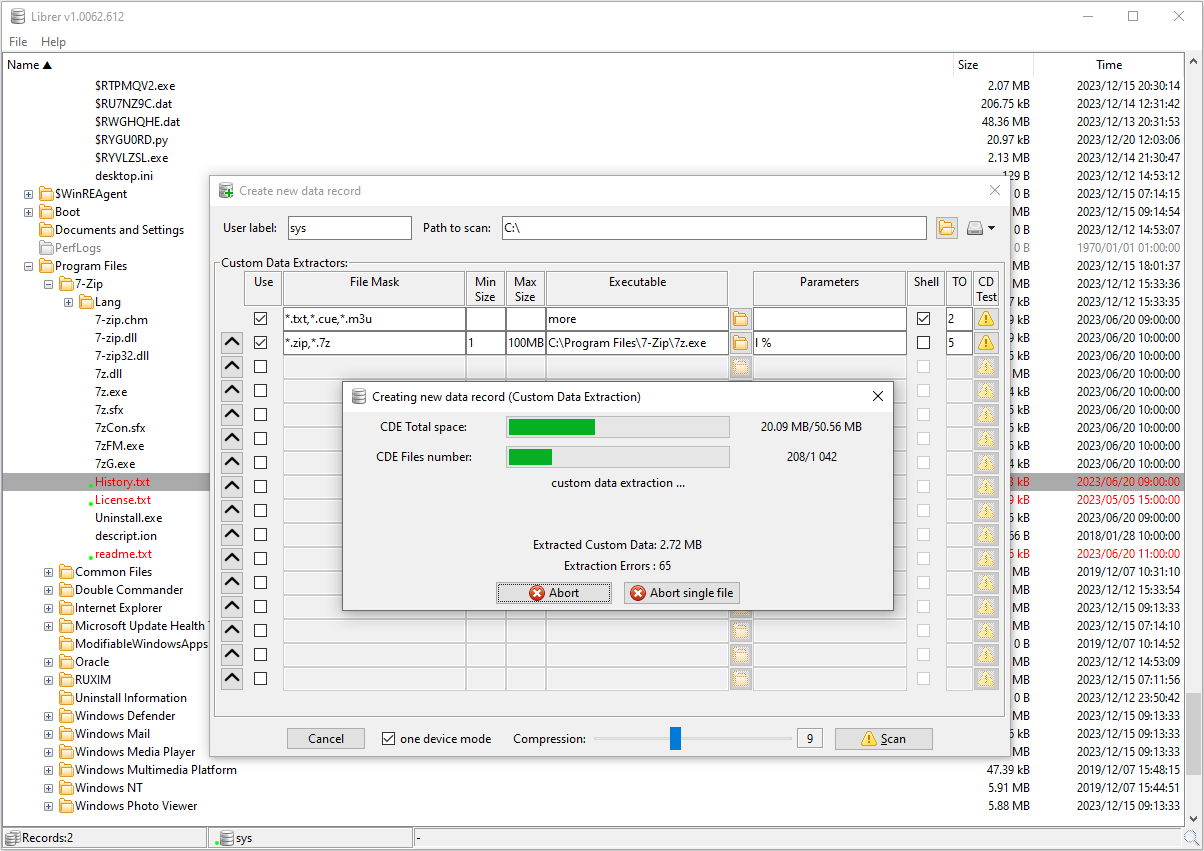
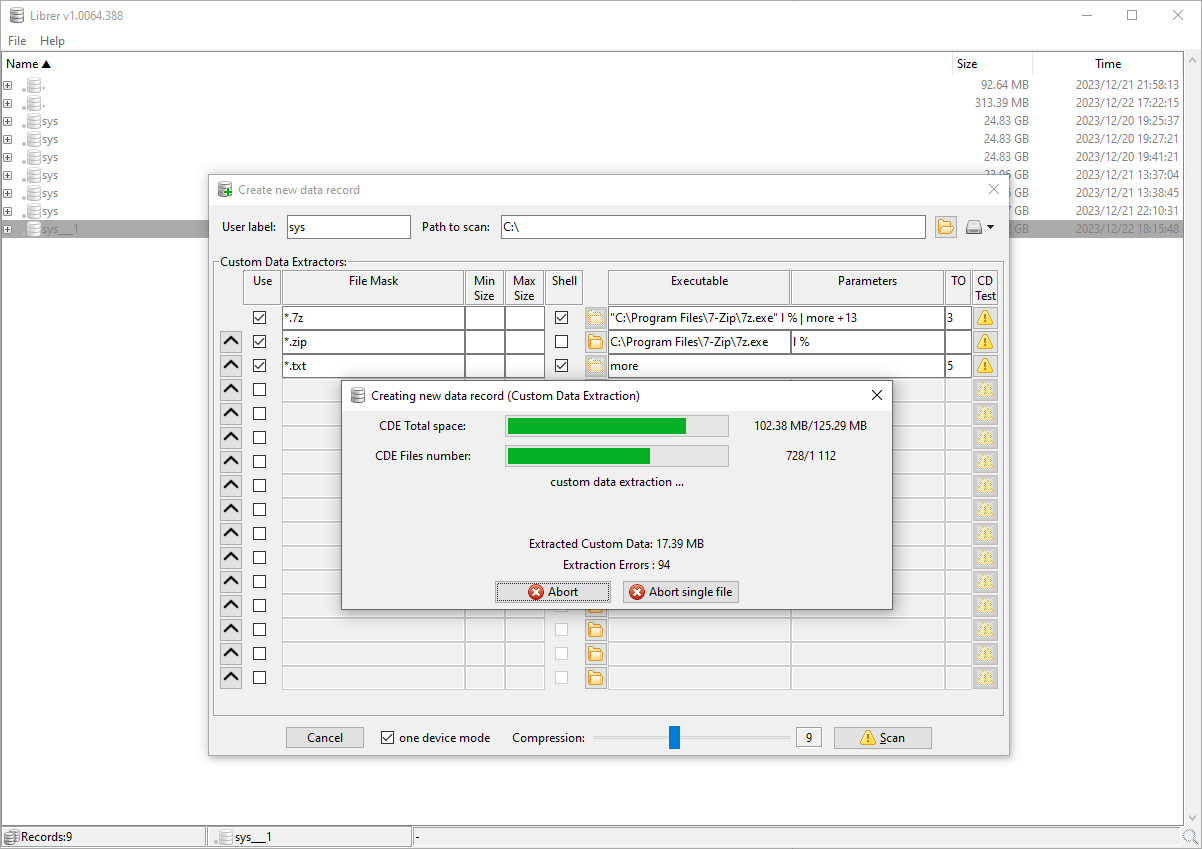
paths processing improvements, tooltips update

diff --git a/src/librer.py b/src/librer.py
@@ -1084,9 +1084,10 @@ class Gui:
             use_tooltip = "Mark to use CD Extractor"
             mask_tooltip = "glob expresions separated by comma (',')\ne.g.: '*.7z, *.zip, *.gz'\n\nthe given executable will run\nwith every file matching the expression\n(and size citeria if provided)"
             max_tooltip = min_tooltip = 'Integer value [in bytes] or integer with unit.\nLeave the value blank to ignore this criterion.\n\nexamples:\n399\n100B\n125kB\n10MB'
-            exec_tooltip = "A binary executable or batch script that will run\nwith the full path to the file to be extracted as a parameter.\nThe executable may have a full path, be located in a PATH\nenvironment variable, or be interpreted by the system shell"
+            exec_tooltip = "Binary executable, batch script, or entire command\n(depending on the 'shell' option setting)\nthat will run with the full path to the scanned file.\nThe executable may have a full path, be located in a PATH\nenvironment variable, or be interpreted by the system shell\n\ncheck 'shell' option tooltip."
             pars_tooltip = f"The executable will run with the full path to the file to extract as a parameter.\nIf other constant parameters are necessary, they should be placed here\nand the scanned file should be indicated with the '{PARAM_INDICATOR_SIGN}' sign.\nThe absence of the '{PARAM_INDICATOR_SIGN}' sign means that the file will be passed as the last parameter.\ne.g.:const_param % other_const_param"
-            shell_tooltip = "Execute in the system shell\n\nWhen enabled\nCommand with parameters will be passed\nto the system shell as single string\nThe use of pipes, redirection etc. is allowed\nExample:\n7z l % | tail -n +14\n\nWhen disabled\nAn executable file must be specified,\nthe contents of the parameters field will be\nsplitted and passed as a parameters list.\n\nIn more complicated cases\nit is recommended to prepare a dedicated shell\nscript and use it as a shell command."
+            shell_example = '"C:\\Program Files\\7-Zip\\7z.exe" l % | more +13' if windows else "7z l % | tail -n +14"
+            shell_tooltip = f"Execute in the system shell\n\nWhen enabled\nCommand with parameters will be passed\nto the system shell as single string\nThe use of pipes, redirection etc. is allowed.\nUsing of quotes (\") may be necessary. Scanned\nfiles will be automatically enclosed with quotation marks.\nExample:\n{shell_example}\n\nWhen disabled\nAn executable file must be specified,\nthe contents of the parameters field will be\nsplitted and passed as a parameters list.\n\nIn more complicated cases\nit is recommended to prepare a dedicated shell\nscript and use it as a shell command."
             open_tooltip = "Point executable as custom data extractor..."
             timeout_tooltip = "Timeout limit in seconds for single CD extraction.\nAfter timeout executed process will be terminated\n\n'0' or empty field means no timeout."
             test_tooltip = "Select a file and test your Custom Data Extractor.\n\nBefore you run scan, and therefore run your CDE on all\nfiles that will match on the scan path,\ntest your Custom Data Extractor\non a single, manually selected file.\nCheck if it's getting the expected data\nand has no unexpected side-effects."
@@ -3413,7 +3414,7 @@ class Gui:
             except:
                 timeout_int = None
 
-            command,command_info = get_command(executable,parameters,full_file_path,shell)
+            command,command_info = get_command(executable,parameters,normpath(full_file_path),shell)
 
             info = command_info + '\n' + ( ('\ntimeout:' + str(timeout_int)) if timeout_int else '') + f'\nshell:{"Yes" if shell else "No"}'
 
@@ -3748,7 +3749,7 @@ class Gui:
 
                                     expressions,use_smin,smin_int,use_smax,smax_int,executable,parameters,shell,timeout,crc = record.header.cde_list[rule_nr]
 
-                                    file_path = record.header.scan_path + sep + sep.join(subpath_list)
+                                    file_path = normpath(sep.join([record.header.scan_path,sep.join(subpath_list)]))
 
                                     cd_txt = cd_data
 

diff --git a/src/core.py b/src/core.py
@@ -172,36 +172,22 @@ def prepare_LUTs():
 prepare_LUTs()
 
 def get_command(executable,parameters,full_file_path,shell):
-    if windows:
-        full_file_path = full_file_path.replace('/',sep)
-
-    if ' ' in full_file_path:
-        full_file_path = f'"{full_file_path}"'
-
     if shell:
-        res = executable
+        if PARAM_INDICATOR_SIGN in executable:
+            res = executable.replace(f'"{PARAM_INDICATOR_SIGN}"',PARAM_INDICATOR_SIGN).replace(f"'{PARAM_INDICATOR_SIGN}'",PARAM_INDICATOR_SIGN).replace(PARAM_INDICATOR_SIGN,f'"{full_file_path}"')
+        else:
+            res = executable + ' ' + f'"{full_file_path}"'
 
-        if PARAM_INDICATOR_SIGN not in res:
-            res = res + ' ' + PARAM_INDICATOR_SIGN
-
-        res = res.replace(PARAM_INDICATOR_SIGN,full_file_path)
-        res_info = res
+        return res,res
     else:
-        if PARAM_INDICATOR_SIGN not in parameters:
-            parameters = parameters + ' ' + PARAM_INDICATOR_SIGN
-
         if not parameters:
-            parameters=PARAM_INDICATOR_SIGN
+            res = [executable] + [full_file_path]
+        elif PARAM_INDICATOR_SIGN not in parameters:
+            res = [executable] + parameters.strip().split() + [full_file_path]
+        else:
+            res = [executable] + [p_elem.replace(PARAM_INDICATOR_SIGN,full_file_path) for p_elem in parameters.replace(f'"{PARAM_INDICATOR_SIGN}"',PARAM_INDICATOR_SIGN).replace(f"'{PARAM_INDICATOR_SIGN}'",PARAM_INDICATOR_SIGN).strip().split() if p_elem]
 
-        parameters = parameters.replace(f'"{PARAM_INDICATOR_SIGN}"',PARAM_INDICATOR_SIGN)
-        parameters = parameters.replace(f"'{PARAM_INDICATOR_SIGN}'",PARAM_INDICATOR_SIGN)
-
-        parameters_list = [p_elem.replace(PARAM_INDICATOR_SIGN,full_file_path) for p_elem in parameters.strip().split() if p_elem]
-
-        res = [executable] + parameters_list
-        res_info = ' '.join(res)
-
-    return res,res_info
+    return res,' '.join(res)
 
 def kill_subprocess(subproc):
     try:

diff --git a/README.md b/README.md
@@ -2,10 +2,10 @@
 
 A cross-platform GUI file cataloging program with extensive customization options to suit user preferences. Highly optimized for multi-core parallel search speed, data integrity, and repository portability.
 
-**The software and this document are under development and in a Release Candidate (2) state.**
+**The software and this document are under development and in a Release Candidate (3) state.**
 
 ## Features:
-The primary purpose of this software is to enable users to catalog their files, particularly on removable media like memory cards and portable drives. It allows user to add metadata, referred to here as **custom data**, and facilitates future searching through the created records. **Custom data** consists of textual information acquired through the execution of user-chosen commands or scripts. **Custom data** may include any text data customized to meet the user's requirements, restricted only by the available memory and the software accessible for data retrieval. The retrieved data is stored in a newly created database record and can be utilized for search or verification purposes. **Liber**  allows you to search files using regular expressions, glob expressions and **fuzzy matching** on both filenames and custom data. Created data records can be exported and imported to share data with others or for backup purposes.
+The primary purpose of this software is to enable users to catalog their files, especially on removable media such as memory cards and portable drives. It allows user to add metadata, referred to here as **custom data**, and later search the created records with multiple cryteria. **Custom data** consists of textual information acquired through the execution of user-chosen commands or scripts. **Custom data** may include any text data customized to meet the user's requirements, restricted only by the available memory and the software accessible for data retrieval. The retrieved data is stored in a newly created database record and can be utilized for search or verification purposes. **Liber**  allows you to search files using regular expressions, glob expressions and **fuzzy matching** on both filenames and **custom data**. Created data records can be exported and imported to share data with others or for backup purposes.
 
 ## Screenshots:
 
